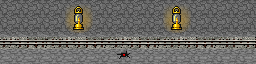
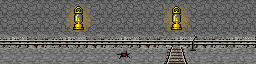
Travel console: outlined edges, no notes box; la_mina4 rail junction art; sea-colour spell note for the artist

Changed region(s): [[0.625, 0.5312, 0.7812, 1.0], [0.625, 0.6875, 0.6562, 0.7188]]

diff --git a/src/dev/travel.js b/src/dev/travel.js
@@ -74,8 +74,9 @@ function autoKind(a, b) {
 }
 
 function line(ctx, a, b, color) {
-    ctx.strokeStyle = color; ctx.lineWidth = 1.5;
-    ctx.beginPath(); ctx.moveTo(a[0] * ZOOM, a[1] * ZOOM); ctx.lineTo(b[0] * ZOOM, b[1] * ZOOM); ctx.stroke();
+    ctx.beginPath(); ctx.moveTo(a[0] * ZOOM, a[1] * ZOOM); ctx.lineTo(b[0] * ZOOM, b[1] * ZOOM);
+    ctx.strokeStyle = 'rgba(0,0,0,0.85)'; ctx.lineWidth = 4; ctx.stroke();       // dark outline: a green line stays visible on green grass
+    ctx.strokeStyle = color; ctx.lineWidth = 1.5; ctx.stroke();
 }
 
 function draw() {
@@ -148,8 +149,6 @@ function draw() {
 function drawLink() {
     const has = src && tgts.some((t) => t !== src), vs = has ? tgts.filter((t) => t !== src).map((t) => verdict(src, t)) : [];
     const own = isCustom(src);
-    p.note.disabled = !own; p.noteLabel.textContent = own ? `Notes for ${src}:` : 'Notes:';
-    if (document.activeElement !== p.note) p.note.value = own ? points[src].note || '' : '';
     p.srcPlace.style.fontWeight = placing === 'src' ? 'bold' : '';
     p.tgtPlace.style.fontWeight = placing === 'tgt' ? 'bold' : '';
     p.newAdd.textContent = placing === 'new' ? 'click the map...' : 'Add point';
@@ -260,7 +259,6 @@ export async function open(devTools) {
         </div>
         <div data-id="linkInfo"></div>
         <div data-id="checkInfo"></div>
-        <div class="row"><b data-id="noteLabel">Notes:</b><textarea data-id="note" rows="2" style="flex:1" placeholder="notes for the future (select a future scene or connector you added)" disabled></textarea></div>
         <div class="row"><button data-id="save">Save verdict</button><button data-id="capture">Capture the map</button><span data-id="count" class="muted"></span></div>
         <div class="row" style="gap:2px 12px">
             <span>Only the direct links of the source are drawn, as straight lines; a spot reached only through another is not a neighbour.</span>
@@ -292,7 +290,6 @@ export async function open(devTools) {
         save(); draw();
         p.tip.textContent = `${list.join(', ')}: type switched. Save verdict and reload to apply it to the graph.`;
     };
-    p.note.oninput = () => { if (isCustom(src)) { points[src].note = p.note.value.slice(0, 500); save(); } };
     p.deselect.onclick = () => { tgts = []; choose('src', ''); };
     p.check.onclick = () => { checking = !checking; p.check.textContent = checking ? 'Hide check' : 'Check connections'; draw(); };
     p.nums.onclick = () => { showNums = !showNums; p.nums.textContent = showNums ? 'Hide numbers' : 'Show numbers'; draw(); };

diff --git a/docs/art-notes.md b/docs/art-notes.md
@@ -64,6 +64,7 @@ Author's note: checking other details about etymos boss, i decided to keep the s
 ```
 Date: 2026-11-24 (from the author, via dev)
 la_Mina2 (img/places/la_mina/la_mina2.png): the rail road should only extend a little to the right of the scene and never reach the left edge, following the map art. Redraw the rail in the scene and drop it in the review drop.
+Artist 2026-11-24: author approved option C, review/scene_mina/la_mina2_c.png. Waiting for dev to copy it into img/; archive this note after that.
 ```
 
 
@@ -85,4 +86,9 @@ Author's note: [[wa regarding the healer hood, i was never happy with the result
 ```
 Date: 2026-11-21 10:07 (from the author, via dev)
 Rainbow boss, art part: dark spectrum enemies (sheet wizardidle-old-ideas/unorganzed_sprites/dark-skelets.png), one per colour: red, orange, yellow, green, blue, indigo, violet. Some exist already; recolour so every colour of the Rainbow boss is represented. Light-school attacks in their colour; Tundra only. Also dye the Rainbow boss's yellow cape black to match the spectrum. Dev wires events later.
+```
+
+```
+Date: 2026-11-24 (from the author, via dev)
+Lamia and greater naga: the colours of their spell powers (maelstrom, tidal_wave, tide_charge and the other strips and scene spells) should match the colour of the sea in the beach scenes. It is all art, no code: recolour and drop them in the review drop.
 ```

diff --git a/ideas.md b/ideas.md
@@ -198,3 +198,4 @@ Newest first; keep the last three, cut older ones to the archive.
 - 2026-11-24 (dev): "First earned by" done; lamia attack animations were already wired. The la_Mina2 rail is in the art (la_mina2.png): for the artist, left in dev-notes.
 - 2026-11-24 (dev): faith meter stick (statsPages.js, .faithStick in index.html) and the boss-blank-before-a-move fix (ui/bossAttacks.js: canvas cleared at the first frame, not at the start) done, untested in a browser. The Texts console error is fixed (a newline inside a string, texts.js:170). The belief meter marker art and the la_Mina2 rail are in art-notes for the artist.
 - 2026-11-24 (dev): belief meter marker art B (needle on a bead, 5x11) wired in place of the stand-in stick; untested in a browser.
+- 2026-11-24 (dev): travel console edge outline + note box removed; la_mina4 option A copied in; sea-coloured boss spells are art, sent to art-notes. la_Mina2 option C waits for the author's yes.

diff --git a/CHANGELOG.md b/CHANGELOG.md
@@ -1,6 +1,8 @@
 # Changelog
 
 ## Unreleased
+- Travel dev console: the edges have a dark outline (a green line on green grass was hard to see) and the notes box is gone.
+- La_Mina4 is redrawn as a rail junction: the branch comes toward the viewer with a switch lever.
 - The Texts dev mode loads again (a stray line break inside a string in the away poems made the whole tools script fail with "Invalid or unexpected token").
 - The belief meter's marker on the stained-glass ring is now a small gold needle on a round bead that points out from the candle and slides back and forth, so it reads as something that moves (it was a tiny diamond).
 - A boss no longer vanishes just before one of its moves (seen with the skeleton): its sprite now stays until the move's first frame is ready, instead of the scene being wiped at once and the boss coming back later.
